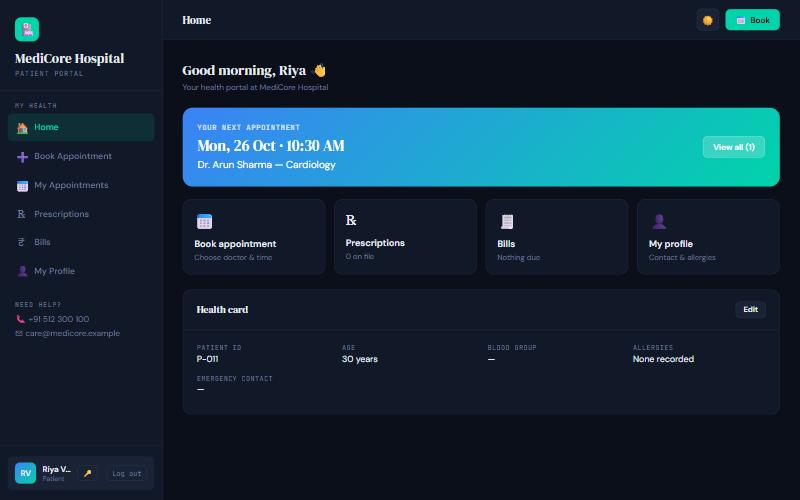
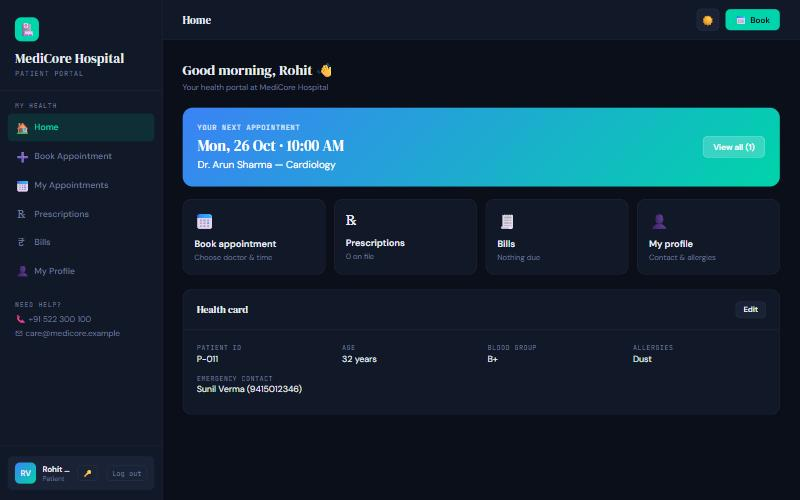
chore: move the sample hospital and patients to Lucknow
Hospital address is now Gomti Nagar, Lucknow, with Lucknow phone codes
for the hospital and departments. Sample patient addresses moved to
Lucknow areas. Screenshots retaken with the new address and a new
sample patient.

diff --git a/config.py b/config.py
@@ -32,9 +32,9 @@ class Config:
     HOSPITAL = {
         "name": os.environ.get("HOSPITAL_NAME", "MediCore Hospital"),
         "tagline": os.environ.get("HOSPITAL_TAGLINE", "Modern care, one click away"),
-        "phone": os.environ.get("HOSPITAL_PHONE", "+91 512 300 100"),
+        "phone": os.environ.get("HOSPITAL_PHONE", "+91 522 300 100"),
         "email": os.environ.get("HOSPITAL_EMAIL", "care@medicore.example"),
-        "address": os.environ.get("HOSPITAL_ADDRESS", "Civil Lines, Kanpur, Uttar Pradesh"),
+        "address": os.environ.get("HOSPITAL_ADDRESS", "Gomti Nagar, Lucknow, Uttar Pradesh"),
     }
 
     SESSION_COOKIE_HTTPONLY = True

diff --git a/CHANGELOG.md b/CHANGELOG.md
@@ -2,6 +2,13 @@
 
 All notable changes to this project are listed here. The format follows [Keep a Changelog](https://keepachangelog.com/en/1.1.0/) and the project uses [semantic versioning](https://semver.org/).
 
+## [1.0.1] - 2026-10-25
+
+### Changed
+
+- The sample hospital is now in Gomti Nagar, Lucknow (address, phone and department numbers), and the sample patients live in Lucknow.
+- README screenshots retaken with the new address and a new sample patient.
+
 ## [1.0.0] - 2026-10-25
 
 First public release.
@@ -20,4 +27,5 @@ First public release.
 - Docker setup and a `/health` endpoint.
 - Test suite (40 tests) and CI with lint, tests against MySQL 8 and a Docker smoke test.
 
+[1.0.1]: https://github.com/shashankmishra23/medicore-hospital-management/releases/tag/v1.0.1
 [1.0.0]: https://github.com/shashankmishra23/medicore-hospital-management/releases/tag/v1.0.0
